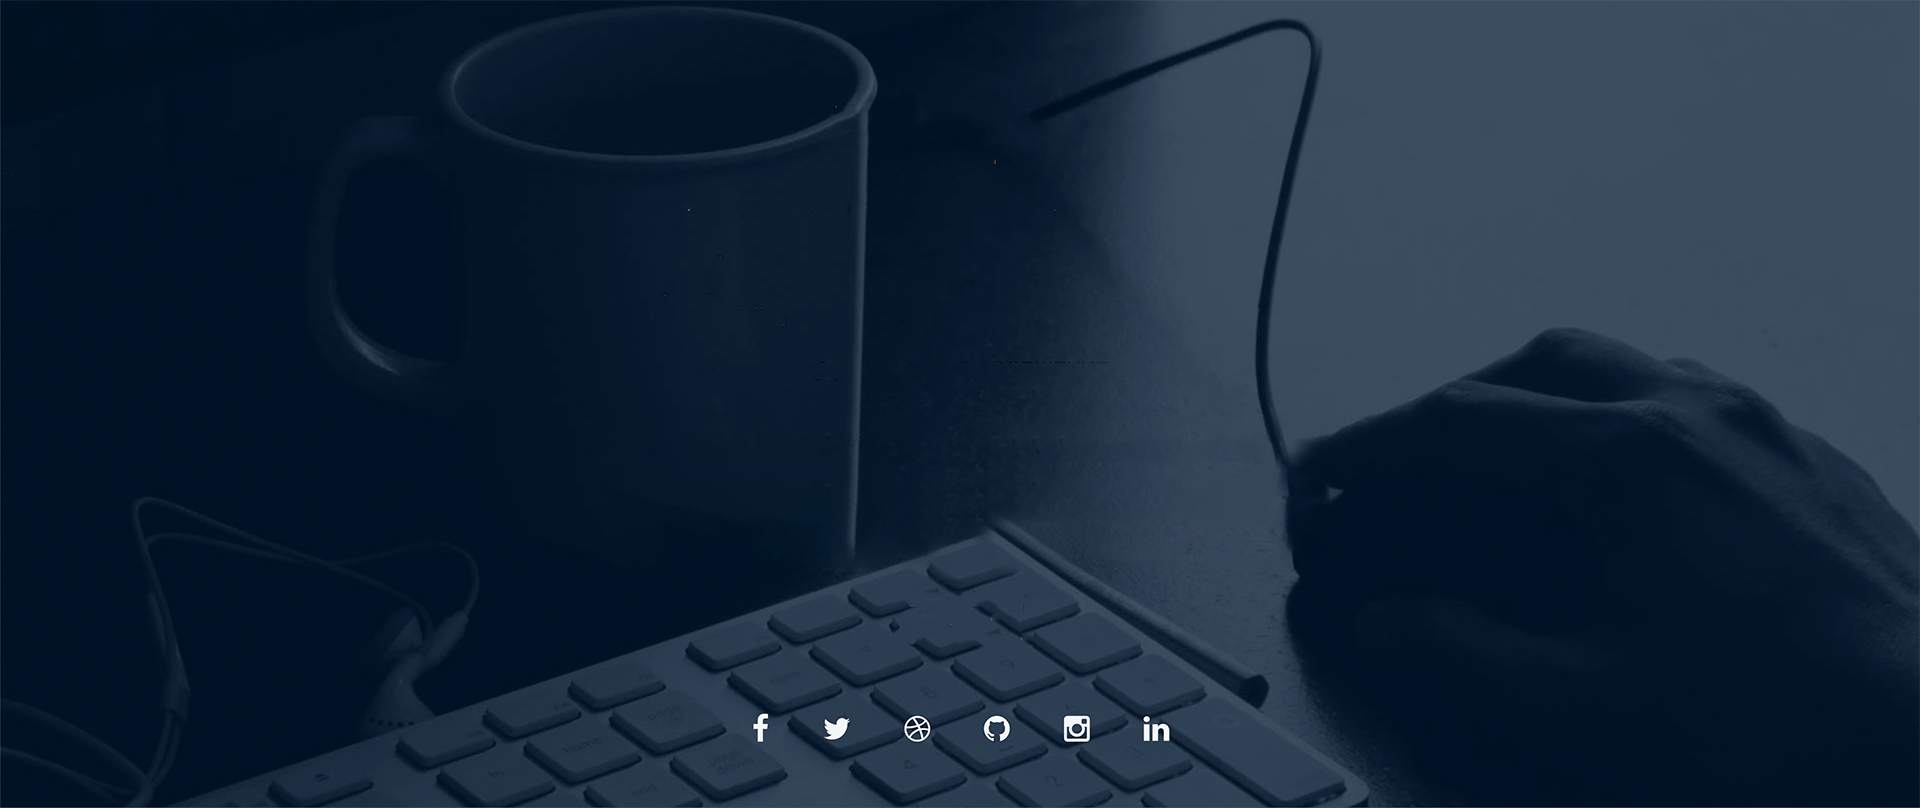
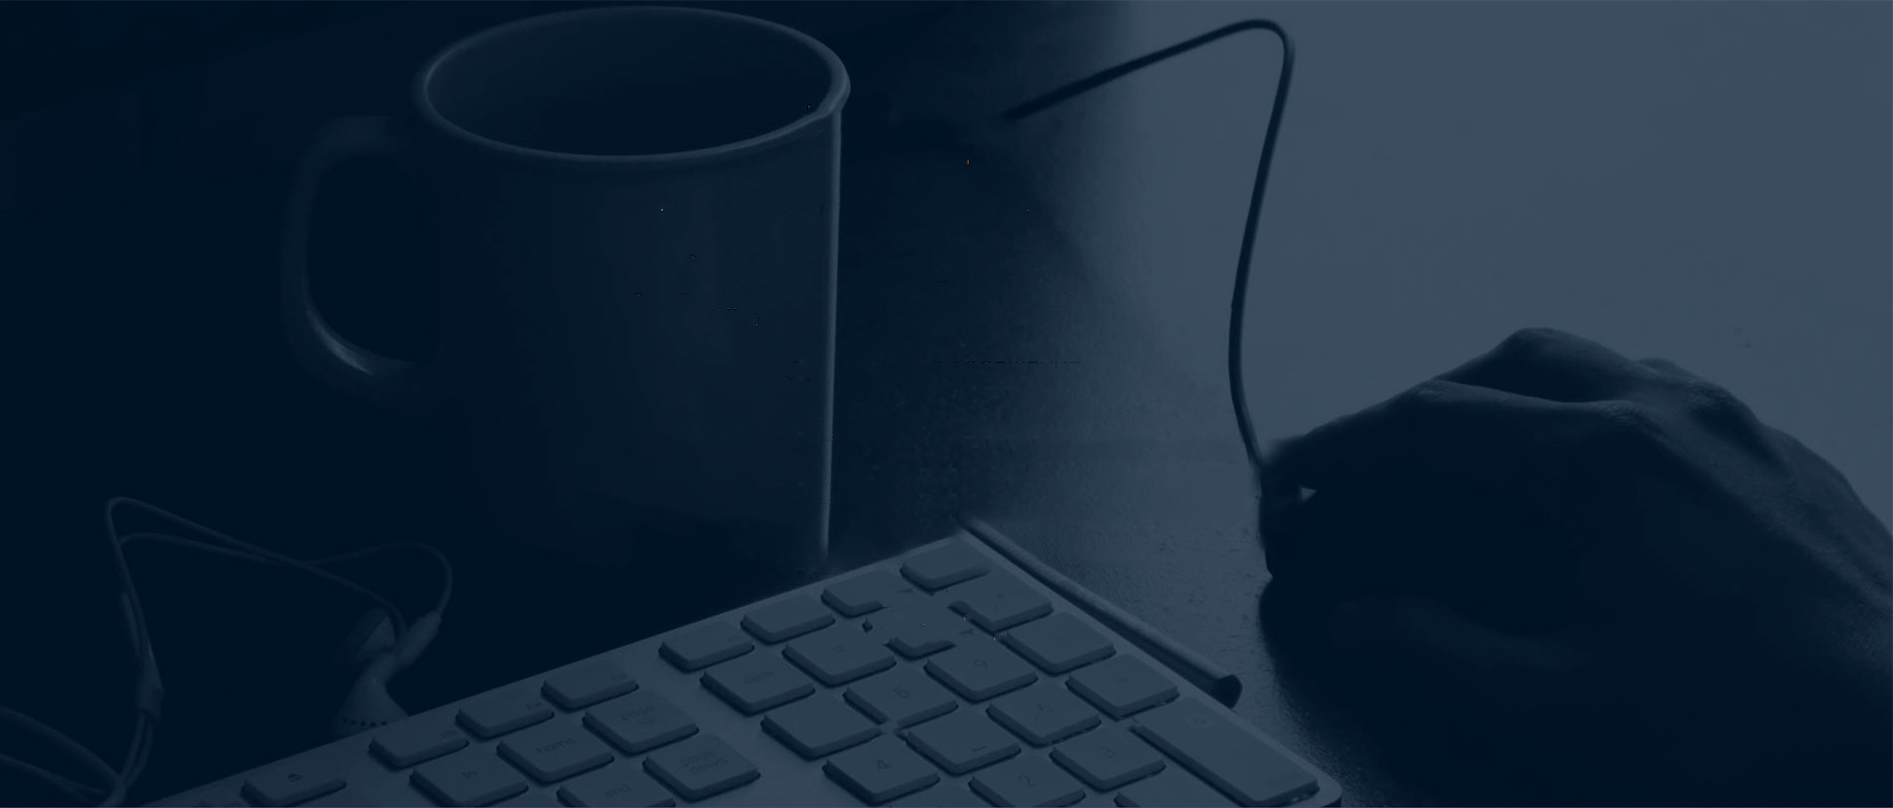
Add files via upload

diff --git a/src/index.html b/src/index.html
@@ -80,7 +80,7 @@
              <h4>WEBSITE:</h4> <br> http://www.somedomain.com</div>
             <input type="submit"value="VISIT LIVE SITE"></li>
              <div><h4>Название проекта:</h4></div> 
-            <li><div>Lorem ipsum dolor sit amet, consectetur adipisicing elit. Molestias hic alias est aspernatur saepe nostrum<br> non, eos laudantium minima, recusandae rem ea maiores impedit perspiciatis adipisci quo voluptate explicabo ducimus<br>  voluptates repellendus dicta. Nemo, numquam ipsa, reprehenderit quo vel maxime.</div></li>
+            <li><div>Lorem ipsum dolor sit amet, consectetur adipisicing elit. Molestias hic alias est <br> aspernatur saepe nostrumnon, eos laudantium minima, recusandae rem ea maiores<br>  impedit  perspiciatis adipisci quo voluptate explicabo ducimus voluptates repellendus <br> dicta. Nemo, numquam ipsa, reprehenderit quo vel maxime.</div></li>
           </ul>   
         </div>
         </div>    
@@ -143,12 +143,12 @@
    <div class="Contacts">
     <div class="NameOfPage"><h4>Мои контакты</h4></div>
     <div>Lorem ipsum dolor sit amet, consectetur adipisicing elit. Error explicabo nostrum ducimus placeat eligendi soluta mollitia incidunt molestiae distinctio fugit.</div>
-            <ul>
+            <ul class="Cont">
              <li><div><img src="img/geo.png" alt="">
              <p>Город, улица</p>
              </div>
              </li>
-             <li><div><img src="img/mail.png" alt="">
+             <li ><div><img src="img/mail.png" alt="">
              <p>kokoc@mail.ru</p>
              </div>
              </li>
@@ -157,13 +157,22 @@
              </div>
              </li>
             </ul>
-    
+            
     <form class="MessageContainer" action="">
         <div>Оставьте мне сообщение</div>
         <input id="Name" type="text" placeholder="Имя">
         <input id="Mail" type="text" placeholder="E-mail"><br>
         <input id="Message" type="text" placeholder="Сообщение">
+  
     </form>
+          <ul class="Social">
+              <li> <img src="img/fb.png" alt=""> </li>
+              <li> <img src="img/twitter.png" alt=""> </li>
+              <li> <img src="img/ball.png" alt=""> </li>
+              <li> <img src="img/cat.png" alt=""> </li>
+              <li> <img src="img/inst.png" alt=""> </li>
+              <li> <img src="img/in.png" alt=""> </li>
+          </ul>
     </div>
     <footer class="Copyright">
         <div>Copyright©2021 Kokoc. Design by Web</div>

diff --git a/src/css/style.css b/src/css/style.css
@@ -118,6 +118,9 @@ nav{
 .Cases{
     height: 100%;
 }
+.Cases img{
+    padding-bottom: 50px;
+}
 .ContentOfCases1{
     text-align: center;
     padding-top: 72px;
@@ -133,7 +136,7 @@ nav{
 .ContentOfCases2 h4{
     font-weight: bold;
     font-size: 19px;
-    line-height: 20px;
+    padding-top: 15px;
 }
 .Cases li{
     float: left;
@@ -143,12 +146,13 @@ nav{
     height: 45px;
     border: 2px solid #62aca6;
     border-radius: 3%;
-    padding: 18px 43px;
+    padding: 13px 43px;
     background-color: #62aca6;
     color: #fff;
     text-transform: bold;
     font-size: 15px;
     margin-top: 26px;
+    
     
 }
 .CostCalculation{
@@ -179,7 +183,7 @@ nav{
     padding-bottom: 30px;
 }
 .Statistic li{
-    padding-left: 12%;
+    padding-left: 10%;
     padding-top: 131px;
     float: left;
     margin-right:40px;
@@ -213,7 +217,7 @@ nav{
 .Contacts div{
     color: white;
 }
-.Contacts li{
+.Cont li{
     float: left;
     padding-left: 340px;
     padding-top: 50px;
@@ -234,18 +238,30 @@ nav{
     width: 352px;
     background-color: rgba(255,255,255,0.7);
     font-weight: bolder;
+    padding-left: 10px;
 }
 #Mail{
     height: 36px;
     width: 352px;
     background-color: rgba(255,255,255,0.7);
     font-weight: bolder;
+    padding-left: 10px
 }
 #Message{
     height:95px;
     width: 710px;
     background-color: rgba(255,255,255,0.7);
     font-weight: bolder;
+    padding-left: 10px;
+    padding-bottom: 55px;
+}
+.Social{
+    padding-left: 495px;
+}
+.Social li{
+    padding-left: 70px;
+    float: left;
+    padding-top: 170px;
 }
 .Copyright{
     height: 92px;
